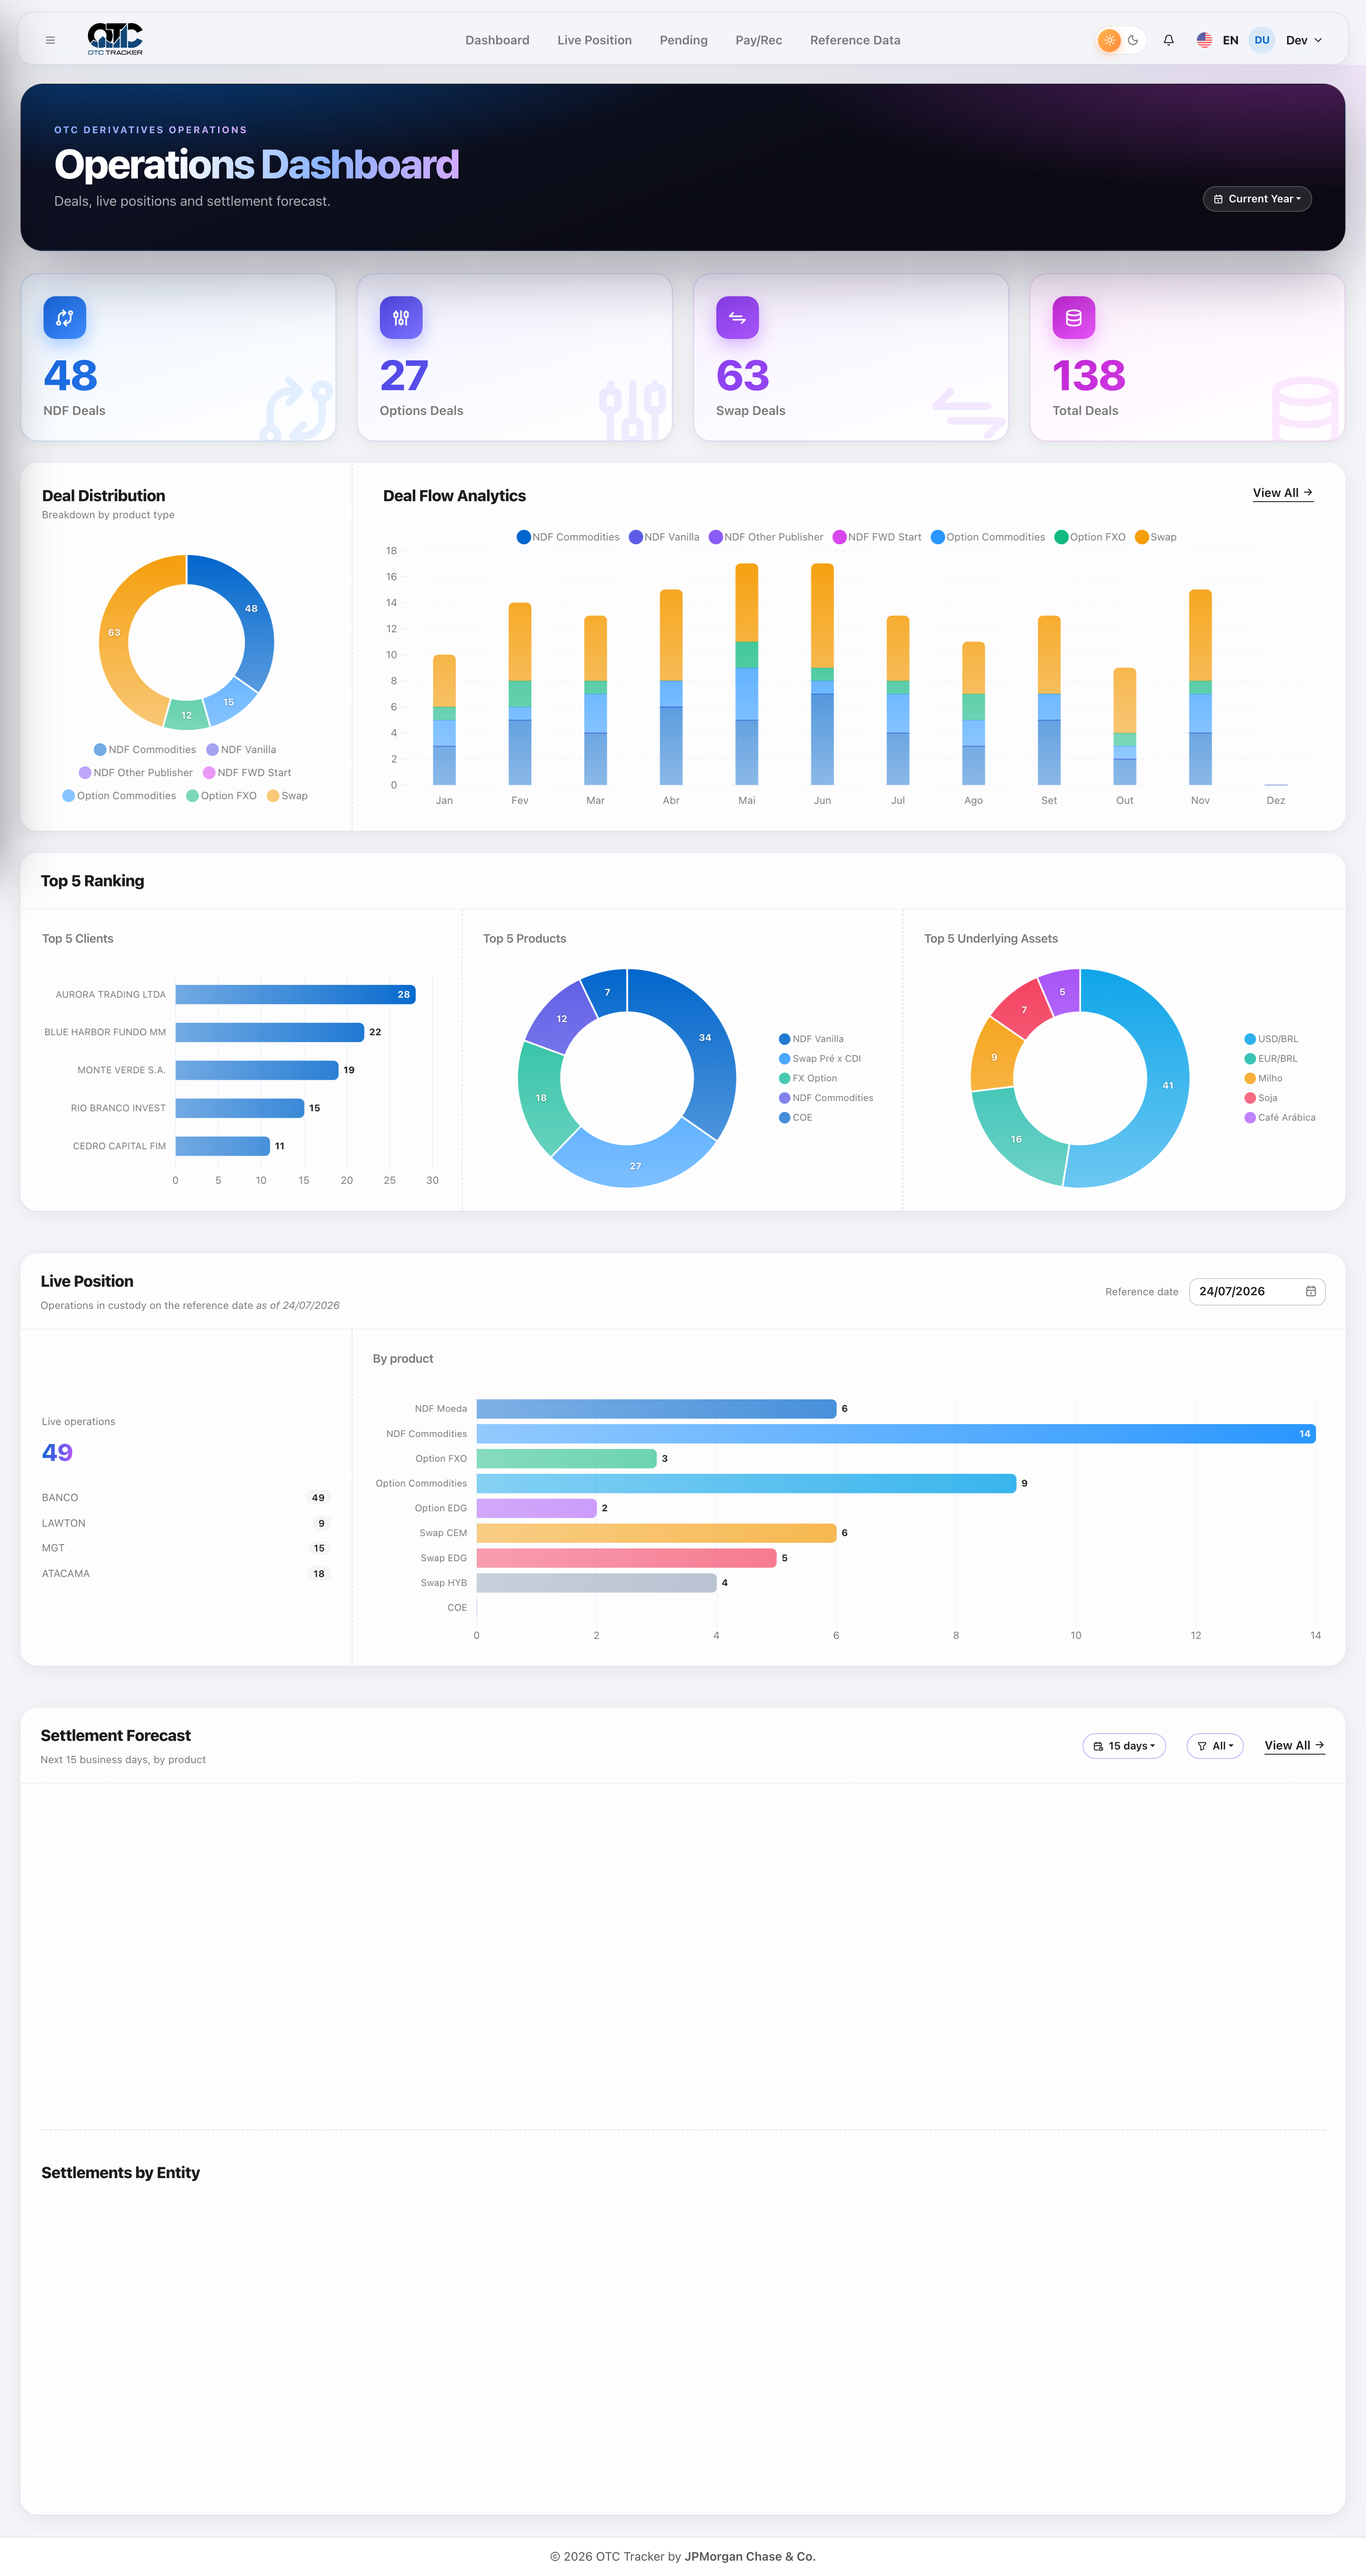
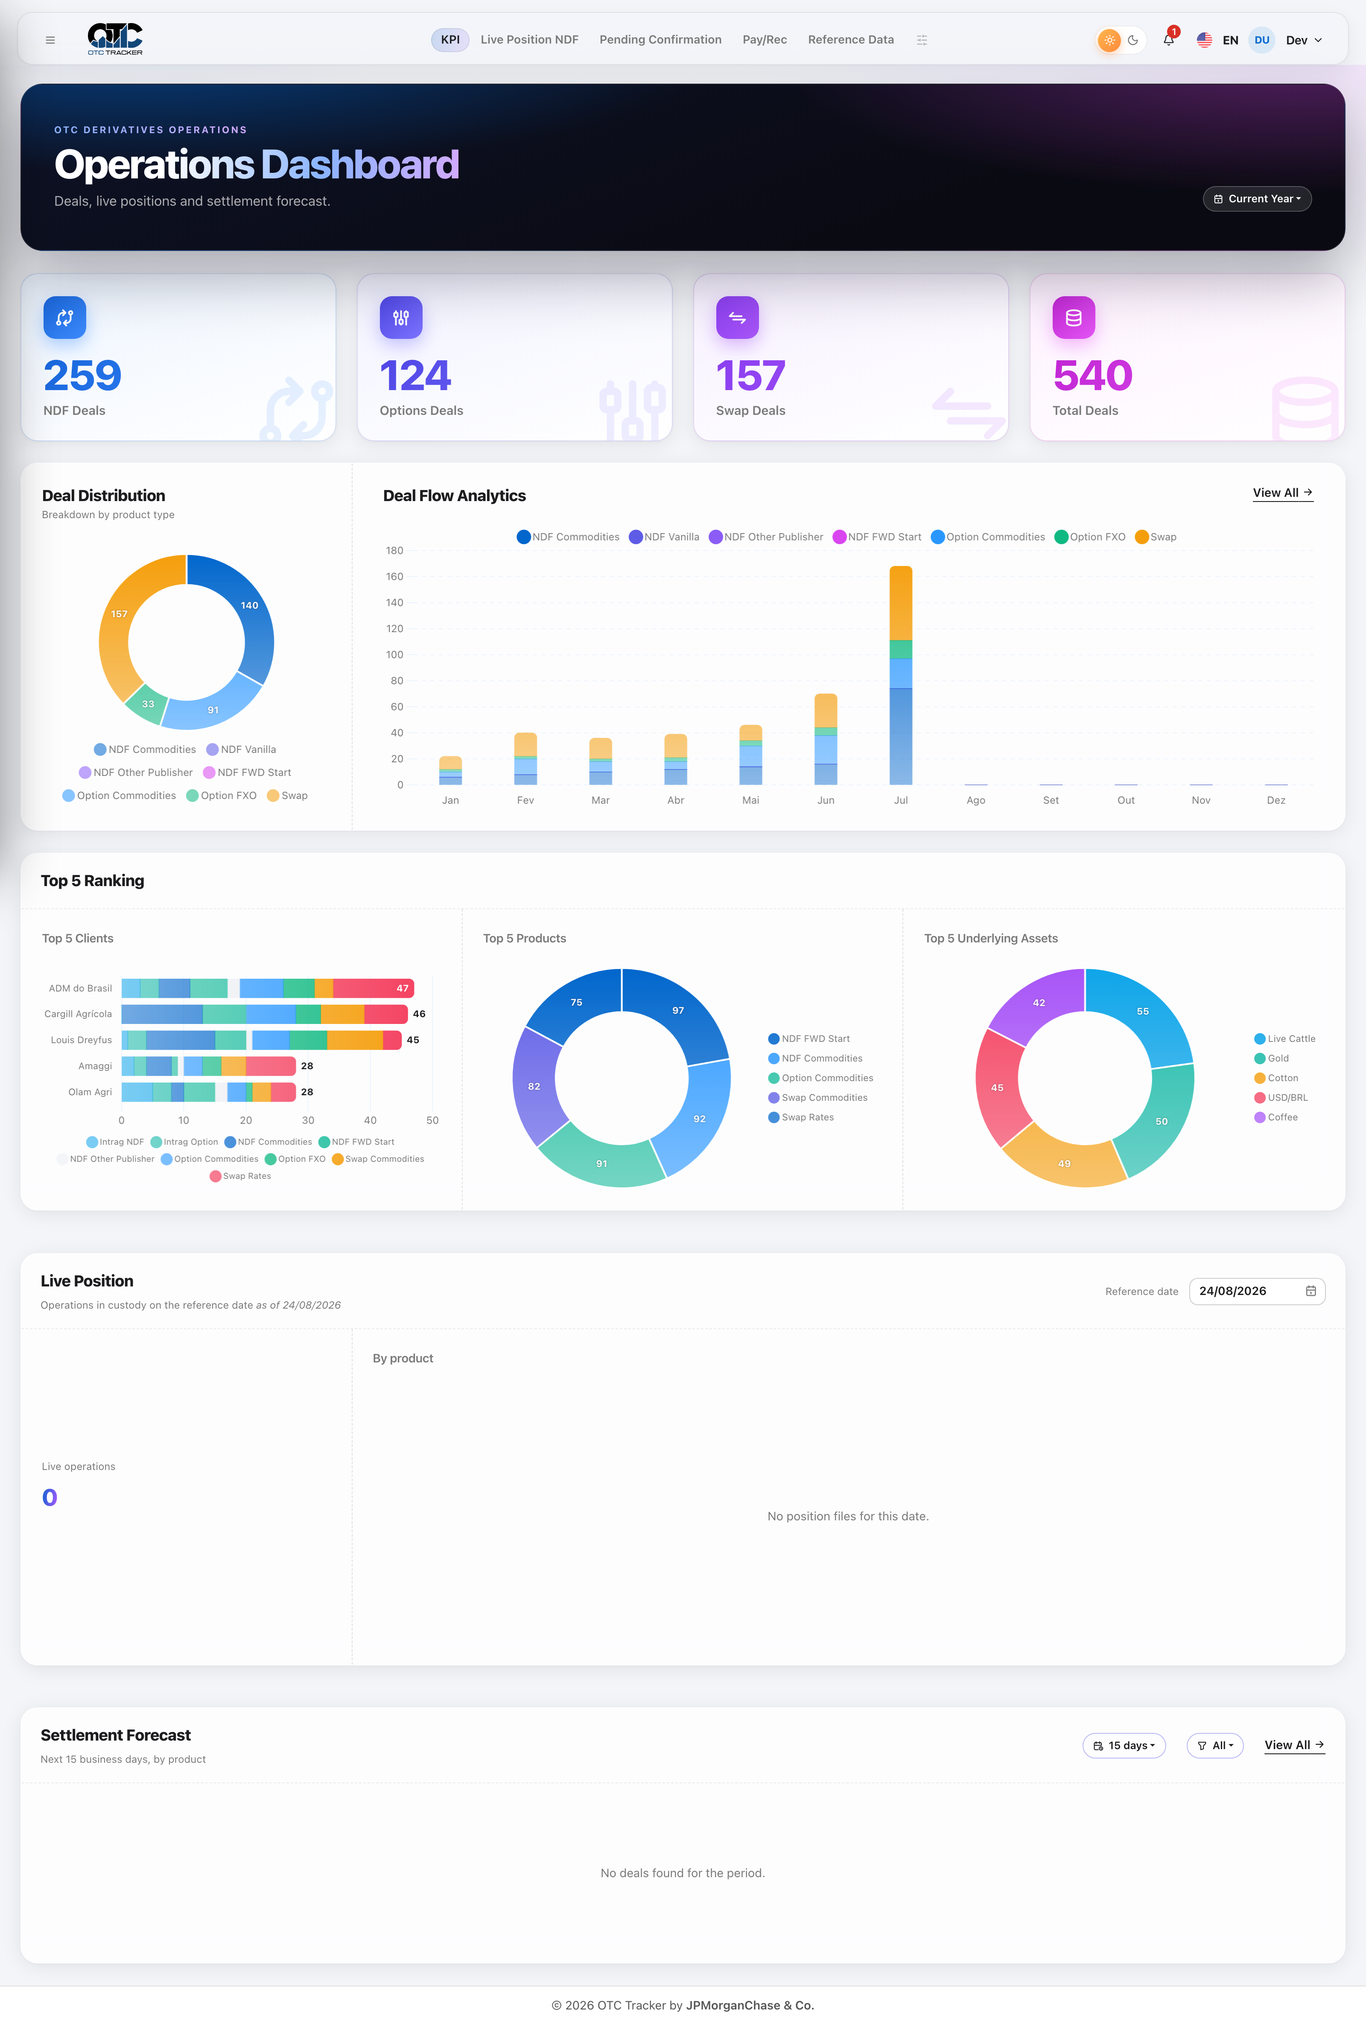
fix(dashboard): o painel vazio não dizia nada — e o endpoint relia o share inteiro
Na instância do JPM os gráficos e os números abriam vazios. O servidor estava
lendo; a tela é que não mostrava, e não dizia por quê.

── Por que ele ficava vazio ─────────────────────────────────────────────────

`/api/dashboard-stats` percorre a árvore inteira dos arquivos-dia do New Deals e
ABRE cada um. Em disco local são milissegundos (63 arquivos, 16 ms aqui). No
share cada `open()` é uma ida à rede, e um ano de pregão em dez pastas de
produto são milhares delas: o request leva minutos e o navegador fica no traço
do placeholder o tempo todo — que é indistinguível de "não houve operação hoje".

O painel é só leitura e agregação, então a resposta serve para todo mundo por
alguns minutos: entra um cache por período, TTL de 120 s (`OTC_DASHBOARD_TTL`
ajusta; `0` desliga). Aqui: 16 ms na primeira chamada, 0,85 ms nas seguintes,
mesmo payload. O TTL é curto de propósito — o painel é o que a mesa abre depois
de importar, e uma janela grande faria a importação "não aparecer".

── Por que ninguém sabia disso ──────────────────────────────────────────────

O `loadDashboard` tinha UM `try` em volta de tudo e um `catch` que só escrevia no
console. Qualquer tropeço — 500, sessão expirada, Chart.js ausente — dava a
mesma tela: números no placeholder, gráficos vazios, nada dito. Agora:

- `getJSON` diz o que veio quando a resposta NÃO é JSON: endereço, status e os
  primeiros 200 caracteres do corpo. É o que separa um 500, um redirecionamento
[…]

diff --git a/apps/static/js/pages/dashboard.js b/apps/static/js/pages/dashboard.js
@@ -880,8 +880,7 @@ function renderLiveEntityStats(entities) {
 async function loadLivePosition(dateStr) {
     try {
         const qs = dateStr ? `?date=${dateStr}` : '';
-        const res = await fetch(`/api/dashboard-live-position${qs}`);
-        const data = await res.json();
+        const data = await getJSON(`/api/dashboard-live-position${qs}`);
         _liveData = data;
 
         const total = document.getElementById('live-total');
@@ -948,12 +947,109 @@ function wireLivePosition(attempt) {
 
 // ─── main load ───────────────────────────────────────────────────────────────
 
+/**
+ * Lê a resposta como JSON e, quando ela NÃO é JSON, levanta um erro que diz o
+ * que veio.
+ *
+ * `res.json()` sozinho estoura com "Unexpected token <" quando o servidor
+ * devolve HTML — a página de erro 500, ou o redirecionamento para o login de
+ * uma sessão que expirou. A mensagem não diz nem o status nem o endereço, e o
+ * `catch` de quem chama deixava a tela exatamente como estava: os números no
+ * traço do placeholder e os gráficos vazios, como se não houvesse dado no dia.
+ * Era preciso abrir o console e adivinhar.
+ */
+async function getJSON(url) {
+    const res = await fetch(url, { credentials: 'same-origin' });
+    const texto = await res.text();
+    let dados = null;
+    try {
+        dados = JSON.parse(texto);
+    } catch {
+        const inicio = texto.trim().slice(0, 200).replace(/\s+/g, ' ');
+        throw new Error(`${url} devolveu ${res.status} ${res.statusText} ` +
+                        `(${res.headers.get('content-type') || 'sem content-type'}): ${inicio}`);
+    }
+    // JSON válido com status de erro (o 401 de sessão expirada, o 400 de
+    // parâmetro) também é falha: sem este teste, o corpo `{error: …}` seguia
+    // adiante e cada número virava `undefined` na tela — o que parece defeito
+    // de conta, não sessão vencida.
+    if (!res.ok) {
+        throw new Error(`${url} devolveu ${res.status}: ` +
+                        ((dados && (dados.error || dados.message)) || res.statusText));
+    }
+    return dados;
+}
+
+/**
+ * Põe o motivo NA TELA. O número que JÁ carregou fica: a falha pode ser de um
+ * gráfico só, e apagar o que deu certo esconderia metade da informação junto
+ * com o erro — só o traço do placeholder vira `!`.
+ */
+function mostraFalha(msg) {
+    ['dash-ndf-count', 'dash-opt-count', 'dash-swap-count', 'dash-total-count']
+        .forEach(id => {
+            const el = document.getElementById(id);
+            if (el && /^[–—-]?$/.test((el.textContent || '').trim())) {
+                el.textContent = '!';
+                el.title = msg;
+            }
+        });
+    const alvo = document.getElementById('dash-load-error');
+    if (alvo) {
+        alvo.className = 'alert alert-danger py-2 px-3 mb-3';
+        alvo.textContent = msg;
+    }
+}
+
+/**
+ * Roda um pedaço do desenho isolado dos outros.
+ *
+ * Os seis gráficos e a tabela viviam num `try` só: o primeiro que estourasse
+ * levava junto TODOS os seguintes — um `Chart is not defined` no gráfico de
+ * pizza deixava a página inteira vazia, e a tela não distinguia isso de um dia
+ * sem operação. Aqui cada um cai sozinho e diz o nome.
+ */
+function tenta(nome, fn) {
+    try {
+        fn();
+    } catch (err) {
+        console.error(`[Dashboard] ${nome} falhou:`, err);
+        mostraFalha(`${nome}: ${err && err.message ? err.message : err}`);
+    }
+}
+
+/**
+ * Diz que está BUSCANDO. O traço do placeholder é indistinguível de "não houve
+ * operação no dia", e a leitura pode demorar quando os arquivos-dia estão no
+ * share — foi assim que uma busca lenta passou por painel vazio.
+ */
+function mostraCarregando(ligado) {
+    const alvo = document.getElementById('dash-load-error');
+    if (!alvo) return;
+    if (ligado) {
+        alvo.className = 'alert alert-info py-2 px-3 mb-3';
+        alvo.textContent = t('dash-loading', 'Carregando os dados do painel…');
+    } else {
+        alvo.className = 'alert alert-danger py-2 px-3 mb-3 d-none';
+        alvo.textContent = '';
+    }
+}
+
 let _lastData = null;
 
 async function loadDashboard(period) {
+    mostraCarregando(true);
     try {
-        const res  = await fetch(`/api/dashboard-stats?period=${period}`);
-        const data = await res.json();
+        // O Chart.js vem de `plugins/chartjs/chart.umd.js`. Faltando o arquivo
+        // (404 no share do estático, cache antigo, pull incompleto) TODO gráfico
+        // sai vazio e o console mostra seis vezes o mesmo erro genérico — aqui a
+        // ausência é dita UMA vez, com o nome da biblioteca.
+        if (typeof Chart === 'undefined') {
+            mostraFalha('Chart.js não carregou (plugins/chartjs/chart.umd.js) — ' +
+                        'os gráficos ficam vazios até ele voltar.');
+        }
+
+        const data = await getJSON(`/api/dashboard-stats?period=${period}`);
         _lastData = data;
 
         // Null-safe: a missing/renamed count element must never halt chart rendering.
@@ -970,28 +1066,33 @@ async function loadDashboard(period) {
         setText('dash-swap-count', data.swap_total ?? 0);
         setText('dash-total-count', data.total_deals);
 
-        updatePeriodBadges(period);
-        buildPieChart(data.dist_ndf, data.dist_opt, data.dist_fxo, data.dist_swap,
-                      data.dist_ndf_vanilla, data.dist_ndf_otherpub, data.dist_ndf_fwdstart);
-        buildFlowChart(data.monthly_ndf, data.monthly_opt, data.monthly_fxo, data.monthly_swap,
-                       data.monthly_ndf_vanilla, data.monthly_ndf_otherpub, data.monthly_ndf_fwdstart);
-        buildClientsChart(data.top5_clients);
-        buildProductsChart(data.top5_products);
-        buildCommoditiesChart(data.top5_underlying);
+        mostraCarregando(false);
+        tenta('período', () => updatePeriodBadges(period));
+        tenta('Deal Distribution', () =>
+            buildPieChart(data.dist_ndf, data.dist_opt, data.dist_fxo, data.dist_swap,
+                          data.dist_ndf_vanilla, data.dist_ndf_otherpub, data.dist_ndf_fwdstart));
+        tenta('Deal Flow Analytics', () =>
+            buildFlowChart(data.monthly_ndf, data.monthly_opt, data.monthly_fxo, data.monthly_swap,
+                           data.monthly_ndf_vanilla, data.monthly_ndf_otherpub, data.monthly_ndf_fwdstart));
+        tenta('Top 5 Clients', () => buildClientsChart(data.top5_clients));
+        tenta('Top 5 Products', () => buildProductsChart(data.top5_products));
+        tenta('Top 5 Underlying', () => buildCommoditiesChart(data.top5_underlying));
 
-        _allRecentDeals = data.recent_deals || [];
-        _activeProduct  = 'all';
-        buildProductDropdown(_allRecentDeals);
-        renderRecentTable(_allRecentDeals);
-
-        // Sync filter label with current translation
-        const label = document.getElementById('dash-product-filter-label');
-        if (label) label.textContent = t('dash-filter-all', 'Todos');
+        tenta('Recent deals', () => {
+            _allRecentDeals = data.recent_deals || [];
+            _activeProduct  = 'all';
+            buildProductDropdown(_allRecentDeals);
+            renderRecentTable(_allRecentDeals);
+            const label = document.getElementById('dash-product-filter-label');
+            if (label) label.textContent = t('dash-filter-all', 'Todos');
+        });
 
     } catch (err) {
         console.error('[Dashboard] Failed to load stats:', err);
+        mostraFalha(err && err.message ? err.message : String(err));
         const tbody = document.getElementById('dash-recent-tbody');
-        if (tbody) tbody.innerHTML = '<tr><td colspan="5" class="text-center text-danger py-4">Erro ao carregar dados.</td></tr>';
+        if (tbody) tbody.innerHTML = '<tr><td colspan="5" class="text-center text-danger py-4">' +
+            (err && err.message ? err.message : 'Erro ao carregar dados.') + '</td></tr>';
     }
 }
 

diff --git a/apps/templates/pages/index.html b/apps/templates/pages/index.html
@@ -332,6 +332,12 @@
     </div>
 
     <!-- ═══ STAT CARDS — bento colorido ══════════════════════════ -->
+    {# A falha do carregamento aparece AQUI, e não só no console: sem isto os
+       números ficam no traço do placeholder e os gráficos vazios, que se lê
+       como "não houve operação no dia". #}
+    <div id="dash-load-error" class="alert alert-danger py-2 px-3 mb-3 d-none"
+         style="font-size:.78rem;"></div>
+
     <div class="row row-cols-xxl-4 row-cols-md-2 row-cols-1 g-3">
         <div class="col">
             <div class="card dash-fade-in dash-stat dash-stat--ndf">

diff --git a/apps/pages/routes.py b/apps/pages/routes.py
@@ -2055,12 +2055,50 @@ def dashboard():
     return render_template('pages/index.html', segment='index')
 
 
+# O painel percorre a árvore INTEIRA dos arquivos-dia do New Deals e ABRE cada
+# um deles. Em disco local isso custa milissegundos; no share da instância cada
+# `open()` é uma ida à rede, e um ano de pregão em dez pastas de produto são
+# milhares delas — o request leva minutos e o navegador fica com o traço do
+# placeholder o tempo todo. O sintoma é o pior possível: o servidor ESTÁ lendo, e
+# a tela parece um dia sem operação.
+#
+# O painel é só leitura e agregação, então a resposta serve para todo mundo por
+# alguns minutos. O TTL é curto de propósito: o dashboard é o que a mesa abre
+# depois de importar, e uma janela grande faria a importação "não aparecer".
+_DASH_TTL = float(os.getenv('OTC_DASHBOARD_TTL', '120'))
+_dash_cache = {}
+_dash_cache_lock = threading.Lock()
+
+
+def _dash_stats_cached(period):
+    """A resposta ainda fresca daquele período, ou `None`."""
+    if _DASH_TTL <= 0:
+        return None
+    with _dash_cache_lock:
+        item = _dash_cache.get(period)
+    if not item:
+        return None
+    quando, dados = item
+    return dados if (time.time() - quando) < _DASH_TTL else None
+
+
+def _dash_stats_store(period, dados):
+    """Guarda e DEVOLVE o payload — para o `return` do endpoint ser um só."""
+    if _DASH_TTL > 0:
+        with _dash_cache_lock:
+            _dash_cache[period] = (time.time(), dados)
+    return dados
+
+
 @blueprint.route('/api/dashboard-stats')
 def api_dashboard_stats():
     if not session.get('authenticated'):
         return jsonify({'error': 'unauthorized'}), 401
 
     period = request.args.get('period', 'all')  # month | year | all
+    cache = _dash_stats_cached(period)
+    if cache is not None:
+        return jsonify(cache)
     now = datetime.now()
     cur_month, cur_year = now.month, now.year
 
@@ -2285,7 +2323,7 @@ def api_dashboard_stats():
         for d in recent_sorted
     ]
 
-    return jsonify({
+    return jsonify(_dash_stats_store(period, {
         'ndf_total':     len(ndf_deals),
         'opt_total':     len(opt_deals),
         'pending_total': pending_total,
@@ -2309,7 +2347,7 @@ def api_dashboard_stats():
         'monthly_fxo':   monthly_fxo,
         'monthly_swap':  monthly_swap,
         'recent_deals':  recent_deals,
-    })
+    }))
 
 
 # Live Position entity breakdown. The Banco (holder 73760) is a party to EVERY
